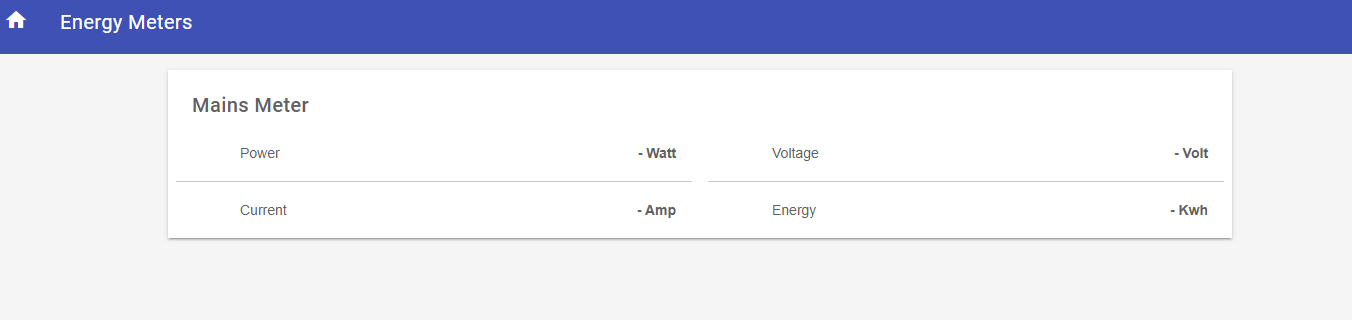
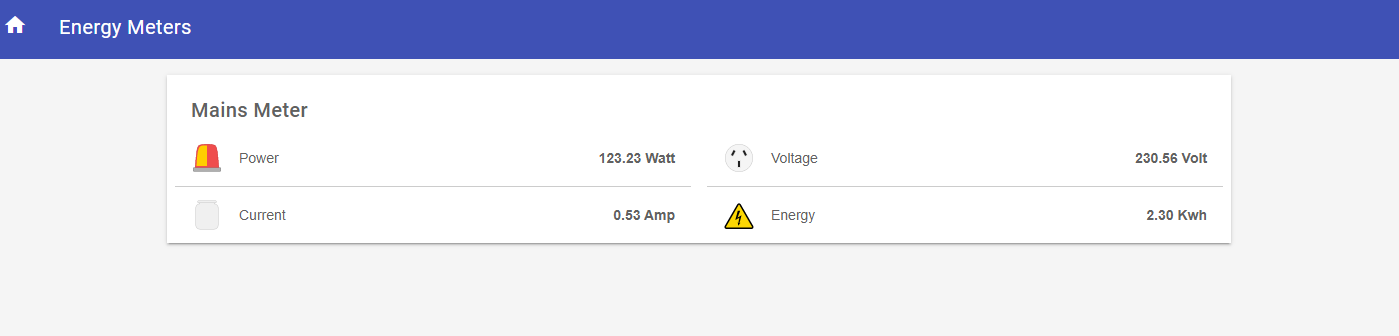
Updated README

diff --git a/README.md b/README.md
@@ -53,11 +53,14 @@
 
     ```js
     Group gEnergyMeter
-    Number  EnergyMeterPower "Power [%.2f Watt]" (gEnergyMeter) { channel="mqtt:topic:localMosquitto:EnergyMeter:power" }
-    Number  EnergyMeterVoltage "Voltage [%.2f Volt]" (gEnergyMeter) { channel="mqtt:topic:localMosquitto:EnergyMeter:voltage" }
-    Number  EnergyMeterCurrent "Current [%.2f Amp]" (gEnergyMeter) { channel="mqtt:topic:localMosquitto:EnergyMeter:current" }
-    Number  EnergyMeterEnergy "Energy [%.2f Kwh]" (gEnergyMeter) { channel="mqtt:topic:localMosquitto:EnergyMeter:energy" }
+    Number  EnergyMeterPower "Power [%.2f Watt]" <alarm> (gEnergyMeter) { channel="mqtt:topic:localMosquitto:EnergyMeter:power" }
+    Number  EnergyMeterVoltage "Voltage [%.2f Volt]" <poweroutlet_au>(gEnergyMeter) { channel="mqtt:topic:localMosquitto:EnergyMeter:voltage" }
+    Number  EnergyMeterCurrent "Current [%.2f Amp]" <cistern> (gEnergyMeter) { channel="mqtt:topic:localMosquitto:EnergyMeter:current" }
+    Number  EnergyMeterEnergy "Energy [%.2f Kwh]" <energy> (gEnergyMeter)  { channel="mqtt:topic:localMosquitto:EnergyMeter:energy" }
     ```
+
+    > I have added icons which are available by default with OpenHAB, which donot justify the parameters. You can change that and add icons of your choice.
+     
     ### Add the items to a sitemap 
 
     > You can either add the items individually or add the group straight away to the sitemaps file.
@@ -75,7 +78,6 @@
         }
     }
     ```
-    You can add icons to the items also, by adding `<icon_name>` before group `(group_)`.
  
     ![](Images/sitemap.PNG)
 
